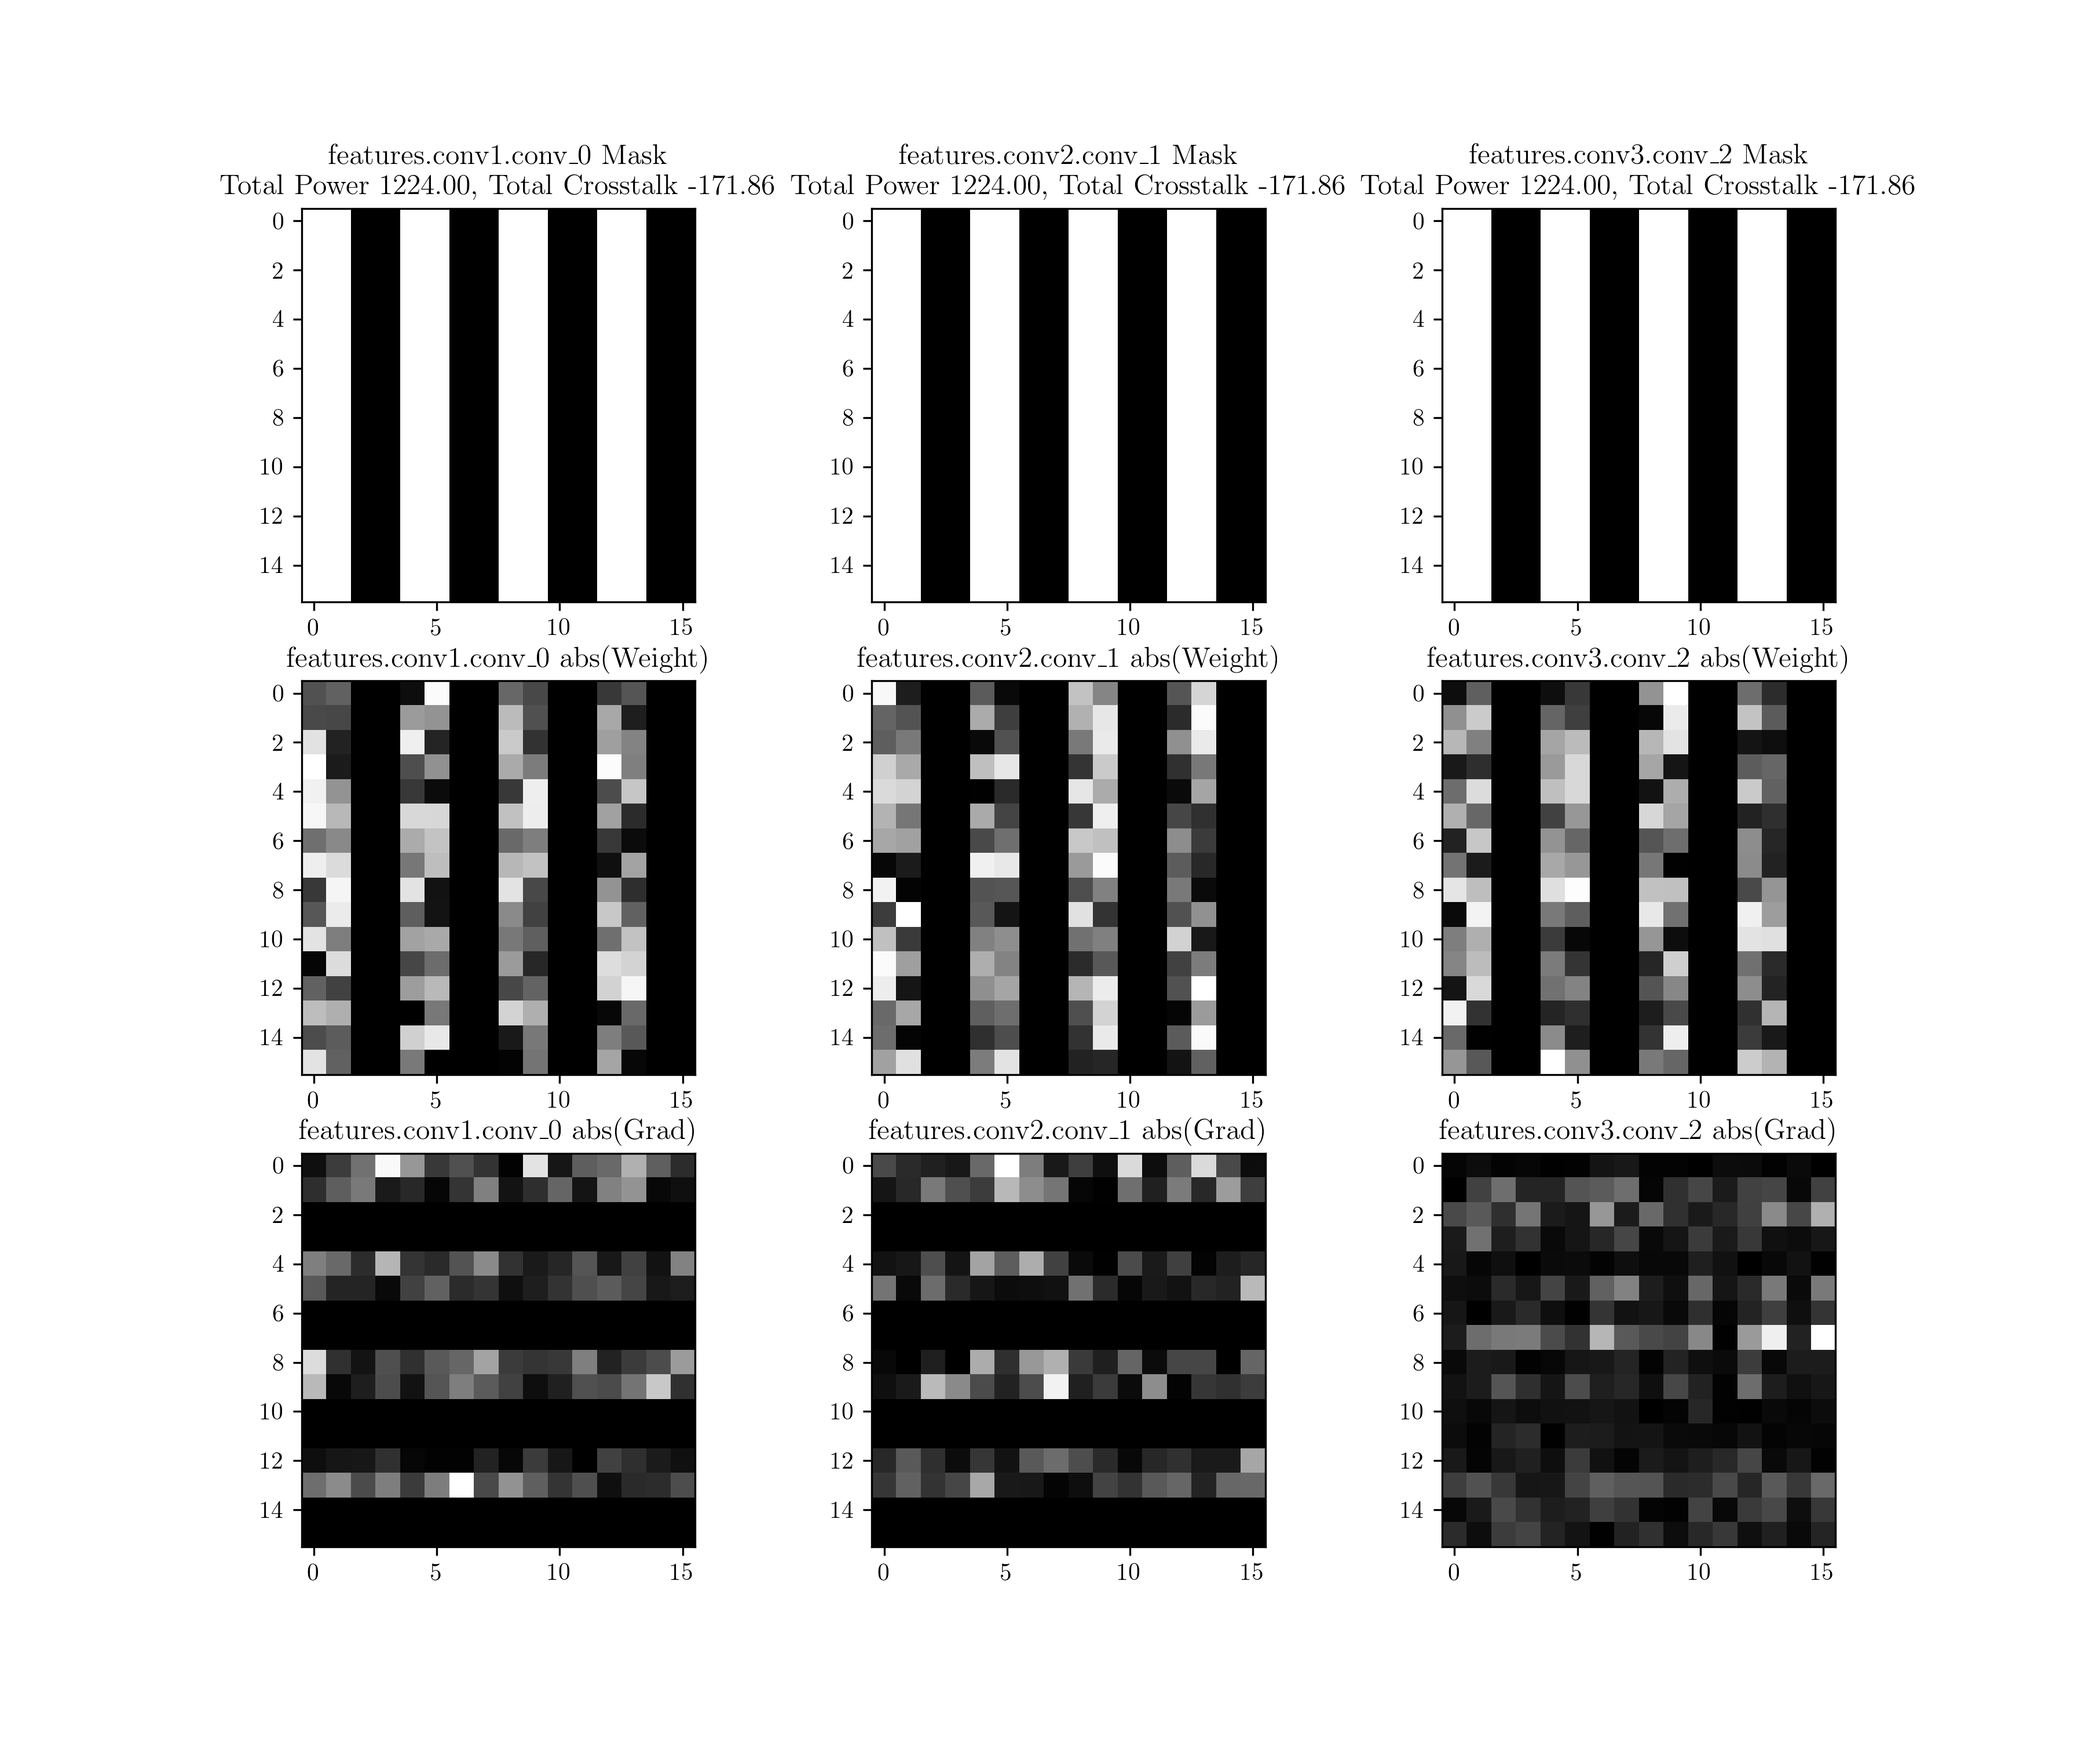
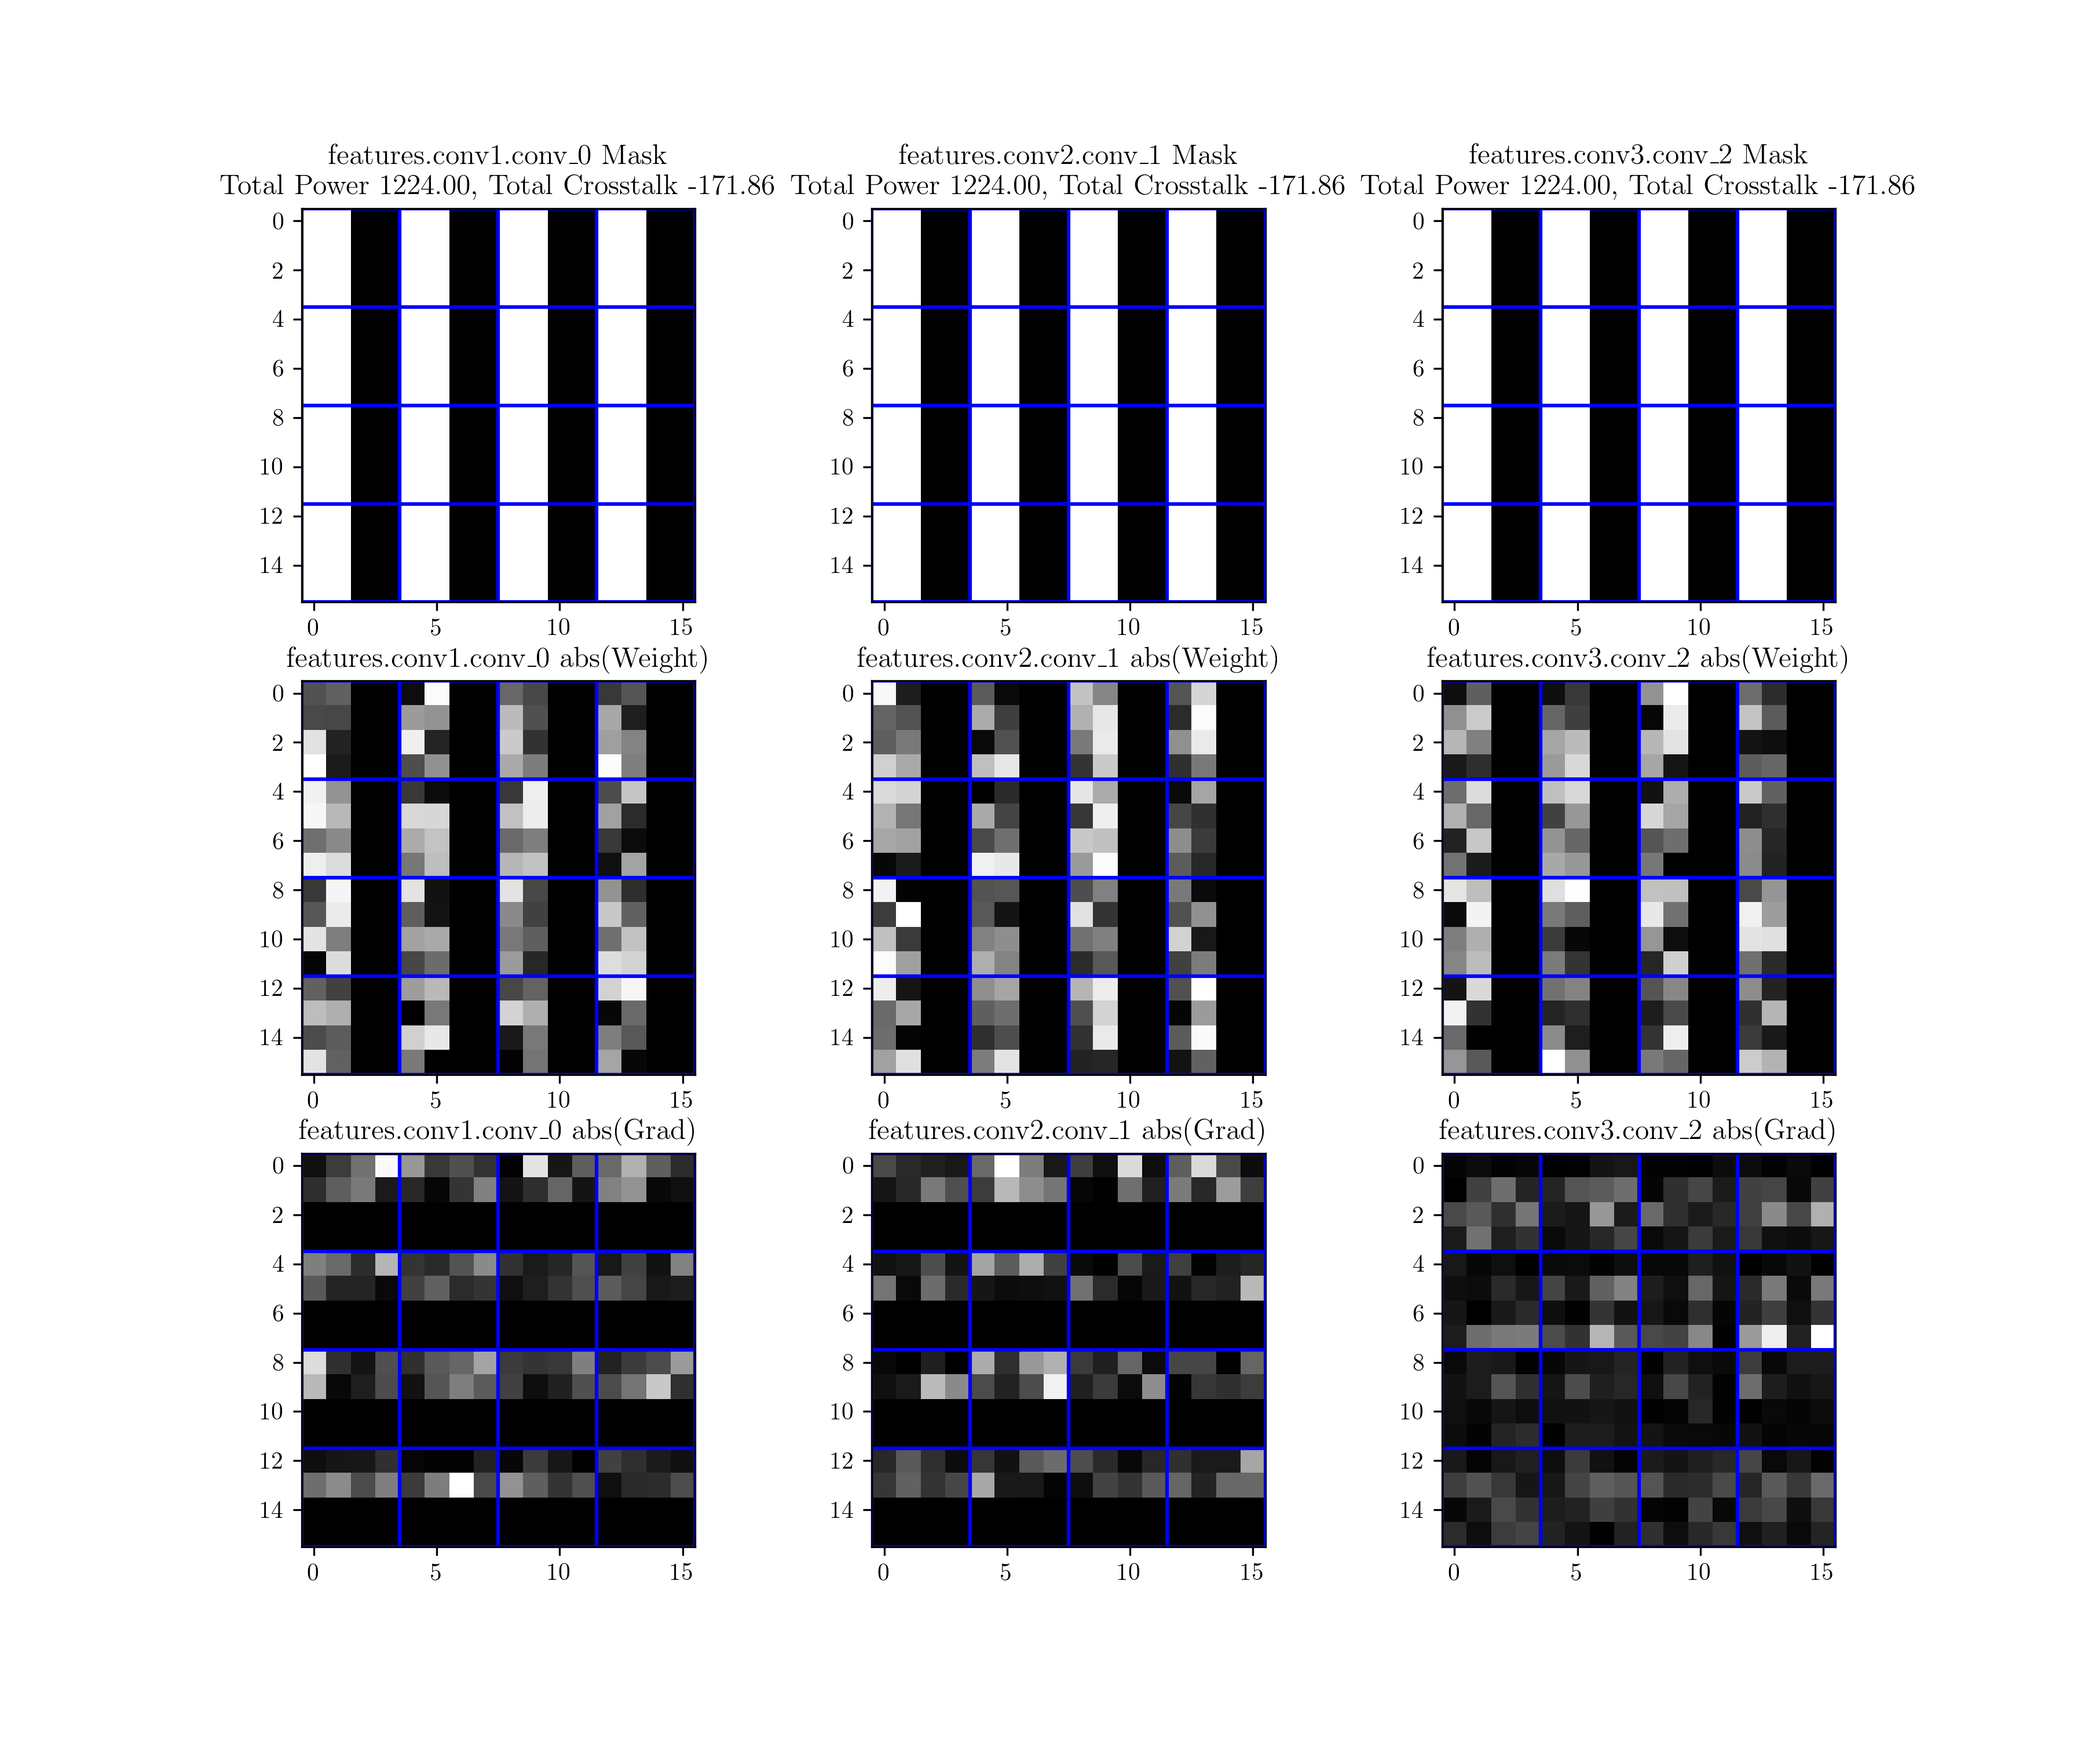
valid death/grow for col and row

diff --git a/core/models/dst2.py b/core/models/dst2.py
@@ -1430,9 +1430,9 @@ class DSTScheduler2(nn.Module):
             ## to make sure pruned magnitude is always smaller than unpruned vectors (which can also have 0 magnitude)
             ## we set pruned magnitude to -1
             if death:
-                ## to make sure the pruned weight always have smaller magnitude than unpruned one (which can also have 0 magnitude)
-                ## we set pruned weight magnitude to -1
-                row_magnitude[~mask["row_mask"]] = -1
+                ## to make sure the pruned weight always have larger magnitude than unpruned one
+                ## we set pruned weight magnitude to 1e8
+                row_magnitude[~mask["row_mask"]] = 1e8
             else:
                 ## to make sure the pruned grad always have larger magnitude than unpruned one (which can also have 0 magnitude)
                 ## we set unpruned grad magnitude to -1
@@ -1450,9 +1450,9 @@ class DSTScheduler2(nn.Module):
             num_row_select_candidates = min(num_row_select + margin, num_to_select_rows)
 
             ## select a slightly larger candidates pool
-            selected_row_indices_flat = torch.argsort(row_magnitude, descending=True)[
-                :num_row_select_candidates
-            ]
+            selected_row_indices_flat = torch.argsort(
+                row_magnitude, descending=False if death else True
+            )[:num_row_select_candidates]
 
             ## convert from flattened indices to high-dimensional indices to match row_mask
             selected_row_indices = torch.unravel_index(
@@ -1596,9 +1596,9 @@ class DSTScheduler2(nn.Module):
             )  # [p, q, 1, c, 1, k2]
 
             if death:
-                ## to make sure the pruned weight always have smaller magnitude than unpruned one (which can also have 0 magnitude)
-                ## we set pruned weight magnitude to -1
-                col_magnitude[~mask["col_mask"]] = -1
+                ## to make sure the pruned weight always have larger magnitude than unpruned one
+                ## we set pruned weight magnitude to 1e8
+                col_magnitude[~mask["col_mask"]] = 1e8
             else:
                 ## to make sure the pruned grad always have larger magnitude than unpruned one (which can also have 0 magnitude)
                 ## we set unpruned grad magnitude to -1
@@ -1615,9 +1615,9 @@ class DSTScheduler2(nn.Module):
             num_col_select_candidates = min(num_col_select + margin, num_to_select_cols)
 
             ## select a slightly larger candidates pool
-            selected_col_indices = torch.argsort(col_magnitude, descending=True)[
-                :num_col_select_candidates
-            ]
+            selected_col_indices = torch.argsort(
+                col_magnitude, descending=False if death else True
+            )[:num_col_select_candidates]
             ## convert from flattened indices to high-dimensional indices to match col_mask
             selected_col_indices = torch.unravel_index(
                 selected_col_indices, mask["col_mask"].shape
@@ -1864,12 +1864,13 @@ class DSTScheduler2(nn.Module):
 
     def plot_mask(self, filename: str, save_fig=False):
         num_masks = len(self.masks)
-        fig, axes = plt.subplots(3, num_masks, figsize=(4*num_masks, 10))
+        fig, axes = plt.subplots(3, num_masks, figsize=(4 * num_masks, 10))
         if num_masks == 1:
             axes = [[ax] for ax in axes]
         total_power, powers = self.get_total_power()
         total_crosstalk, crosstalks = self.get_total_crosstalk()
         for i, (name, mask) in enumerate(self.masks.items()):
+            k1, k2 = mask["row_mask"].shape[-2], mask["col_mask"].shape[-1]
             mask = mask.data.permute(0, 2, 4, 1, 3, 5).flatten(0, 2).flatten(1)
             axes[0][i].imshow(mask.data.cpu().numpy(), cmap="gray")
             axes[0][i].set_title(
@@ -1895,6 +1896,12 @@ class DSTScheduler2(nn.Module):
             )
             axes[2][i].imshow(grad.data.abs().cpu().numpy(), cmap="gray")
             axes[2][i].set_title(name + " abs(Grad)")
+
+            for j in range(len(axes)):
+                for y in np.arange(-0.5, mask.shape[0] - 0.4, k1):
+                    axes[j][i].plot([-0.5, mask.shape[1] - 0.5], [y, y], "b")
+                for x in np.arange(-0.5, mask.shape[1] - 0.4, k2):
+                    axes[j][i].plot([x, x], [-0.5, mask.shape[0] - 0.5], "b")
 
         if save_fig:
             ensure_dir("./unitest/figs")
